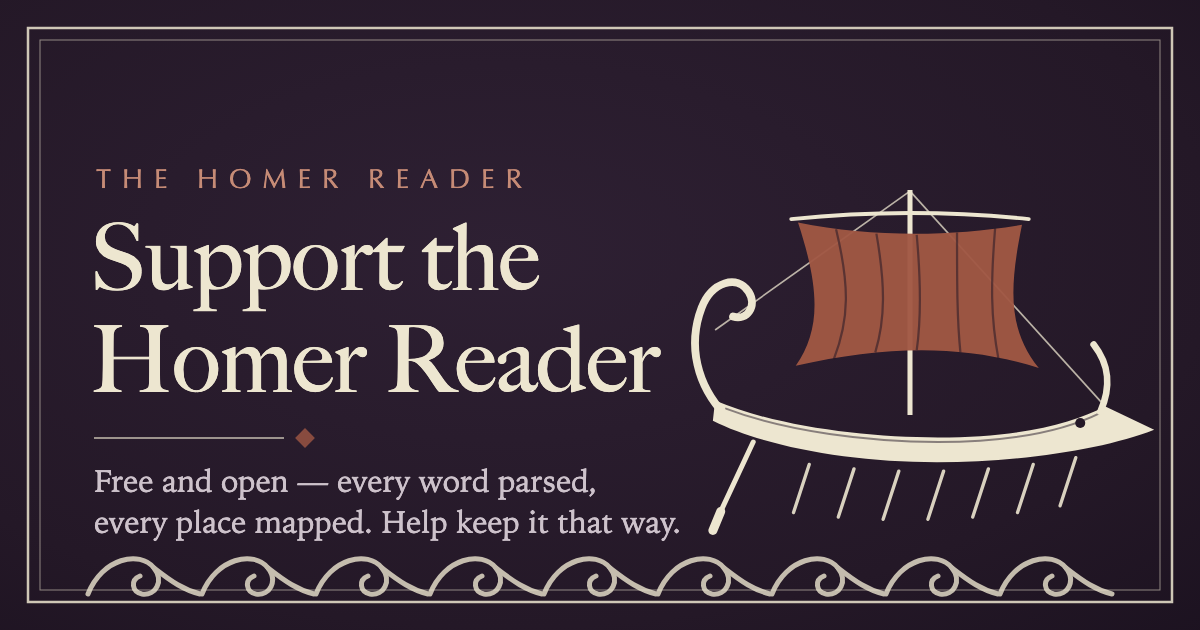
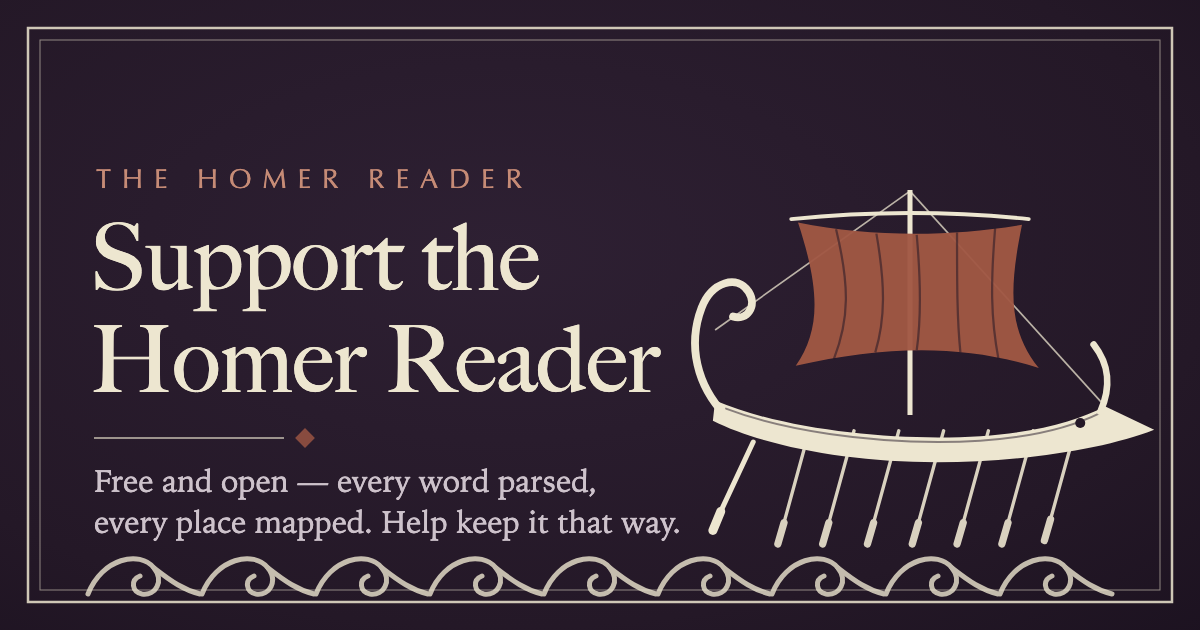
support: live Stripe link, ship-motif og-default, fully formed oars
- SUPPORT_URL swapped to the live donation Payment Link (John, 2026-08-05).
- og-default.png redrawn in the ship style to match og-support: galley with
  terracotta sail, opening hexameter, wave band, wine-dark ground.
- Oars redrawn on all three graphics per John: shafts emerge from under the
  hull and end in blades that reach the water, drawn behind the hull.
- Sources in docs/ updated alongside.

Changed region(s): [[0.6475, 0.7238, 0.8942, 0.8746]]

diff --git a/docs/og-default-card.html b/docs/og-default-card.html
@@ -94,28 +94,27 @@
   <rect x="40" y="40" width="1120" height="550" fill="none" stroke="#EDE6D0" stroke-width="1" opacity="0.55"/>
 
   <!-- ship, right side -->
-  <g transform="translate(462,-62) scale(0.56)">
+  <g transform="translate(505,-10) scale(0.52)">
     <use href="#ship"/>
   </g>
 
   <!-- text block, left -->
-  <text x="96" y="188" font-family="Optima,Seravek,'Gill Sans',sans-serif"
-        font-size="27" letter-spacing="11" fill="#C68B76">THE HOMER READER</text>
+  <text x="90" y="238" font-family="'Big Caslon','Hoefler Text',Palatino,serif"
+        font-size="84" fill="#EDE6D0">The Homer Reader</text>
 
-  <text x="90" y="290" font-family="'Big Caslon','Hoefler Text',Palatino,serif"
-        font-size="92" fill="#EDE6D0">Support the</text>
-  <text x="90" y="392" font-family="'Big Caslon','Hoefler Text',Palatino,serif"
-        font-size="92" fill="#EDE6D0">Homer Reader</text>
+  <text x="93" y="308" font-family="'Iowan Old Style',Charter,Palatino,serif"
+        font-size="33" fill="#C68B76">The Iliad &amp; the Odyssey · Greek and English</text>
+
+  <text x="93" y="368" font-family="Palatino,'Palatino Linotype',serif" font-style="italic"
+        font-size="33" fill="#CDC2CB">ἄνδρα μοι ἔννεπε, μοῦσα, πολύτροπον</text>
 
   <g opacity="0.8">
-    <line x1="94" y1="438" x2="284" y2="438" stroke="#EDE6D0" stroke-width="1.5"/>
-    <rect x="298" y="431" width="14" height="14" transform="rotate(45 305 438)" fill="#A05744"/>
+    <line x1="94" y1="412" x2="284" y2="412" stroke="#EDE6D0" stroke-width="1.5"/>
+    <rect x="298" y="405" width="14" height="14" transform="rotate(45 305 412)" fill="#A05744"/>
   </g>
 
-  <text x="94" y="492" font-family="'Iowan Old Style',Charter,Palatino,serif"
-        font-size="31" fill="#CDC2CB">Free and open — every word parsed,</text>
-  <text x="94" y="533" font-family="'Iowan Old Style',Charter,Palatino,serif"
-        font-size="31" fill="#CDC2CB">every place mapped. Help keep it that way.</text>
+  <text x="93" y="470" font-family="'Iowan Old Style',Charter,Palatino,serif"
+        font-size="30" fill="#CDC2CB">Every word parsed · every place mapped · free</text>
 
   <!-- wave band along the bottom -->
   <g opacity="0.8">

diff --git a/docs/stripe-checkout-graphic.html b/docs/stripe-checkout-graphic.html
@@ -73,6 +73,24 @@
     <path d="M 884 526 C 884 620, 884 680, 890 740" fill="none" stroke="#241827" stroke-width="4" opacity="0.55"/>
     <path d="M 952 518 C 944 616, 944 678, 958 752" fill="none" stroke="#241827" stroke-width="4" opacity="0.55"/>
 
+    <!-- oars: shafts from under the hull down into the water, with blades -->
+    <g stroke="#EDE6D0" stroke-linecap="round" opacity="0.9">
+      <line x1="620" y1="880" x2="575" y2="1044" stroke-width="6"/>
+      <line x1="575" y1="1044" x2="564" y2="1082" stroke-width="13"/>
+      <line x1="700" y1="880" x2="655" y2="1044" stroke-width="6"/>
+      <line x1="655" y1="1044" x2="644" y2="1082" stroke-width="13"/>
+      <line x1="780" y1="880" x2="735" y2="1044" stroke-width="6"/>
+      <line x1="735" y1="1044" x2="724" y2="1082" stroke-width="13"/>
+      <line x1="860" y1="880" x2="815" y2="1044" stroke-width="6"/>
+      <line x1="815" y1="1044" x2="804" y2="1082" stroke-width="13"/>
+      <line x1="940" y1="880" x2="895" y2="1044" stroke-width="6"/>
+      <line x1="895" y1="1044" x2="884" y2="1082" stroke-width="13"/>
+      <line x1="1020" y1="880" x2="975" y2="1044" stroke-width="6"/>
+      <line x1="975" y1="1044" x2="964" y2="1082" stroke-width="13"/>
+      <line x1="1096" y1="874" x2="1051" y2="1038" stroke-width="6"/>
+      <line x1="1051" y1="1038" x2="1040" y2="1076" stroke-width="13"/>
+    </g>
+
     <!-- hull: long crescent band, filled bone -->
     <path d="M 452 826
              C 560 872, 720 892, 850 892
@@ -103,16 +121,6 @@
     <path d="M 520 900 L 462 1024" stroke="#EDE6D0" stroke-width="9" stroke-linecap="round"/>
     <path d="M 462 1024 L 448 1058" stroke="#EDE6D0" stroke-width="16" stroke-linecap="round"/>
 
-    <!-- oars -->
-    <g stroke="#EDE6D0" stroke-width="6" stroke-linecap="round" opacity="0.9">
-      <line x1="620" y1="940" x2="592" y2="1026"/>
-      <line x1="700" y1="948" x2="672" y2="1034"/>
-      <line x1="780" y1="952" x2="752" y2="1038"/>
-      <line x1="860" y1="952" x2="832" y2="1038"/>
-      <line x1="940" y1="948" x2="912" y2="1034"/>
-      <line x1="1020" y1="940" x2="992" y2="1026"/>
-      <line x1="1096" y1="928" x2="1068" y2="1014"/>
-    </g>
   </g>
 
   <!-- wave band -->

diff --git a/app/src/lib/support.ts b/app/src/lib/support.ts
@@ -2,4 +2,4 @@
 // A Stripe Payment Link ("Customers choose what to pay", CTA = Donate) — a
 // plain hosted-checkout URL, so the on-site card and header pill stay fully
 // styled in our own tokens until the moment the reader clicks through.
-export const SUPPORT_URL = 'https://buy.stripe.com/cNi5kE3wn3lx7Wy5hN9fW00';
+export const SUPPORT_URL = 'https://buy.stripe.com/eVqeVe9UL7BN2CefWr9fW02';
